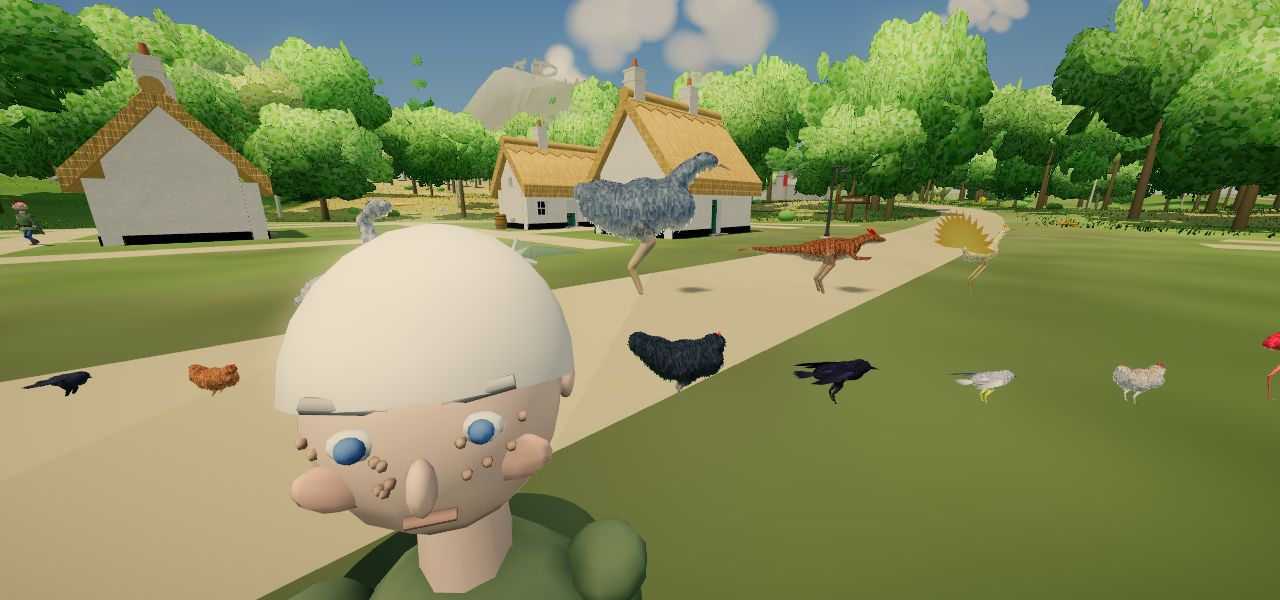
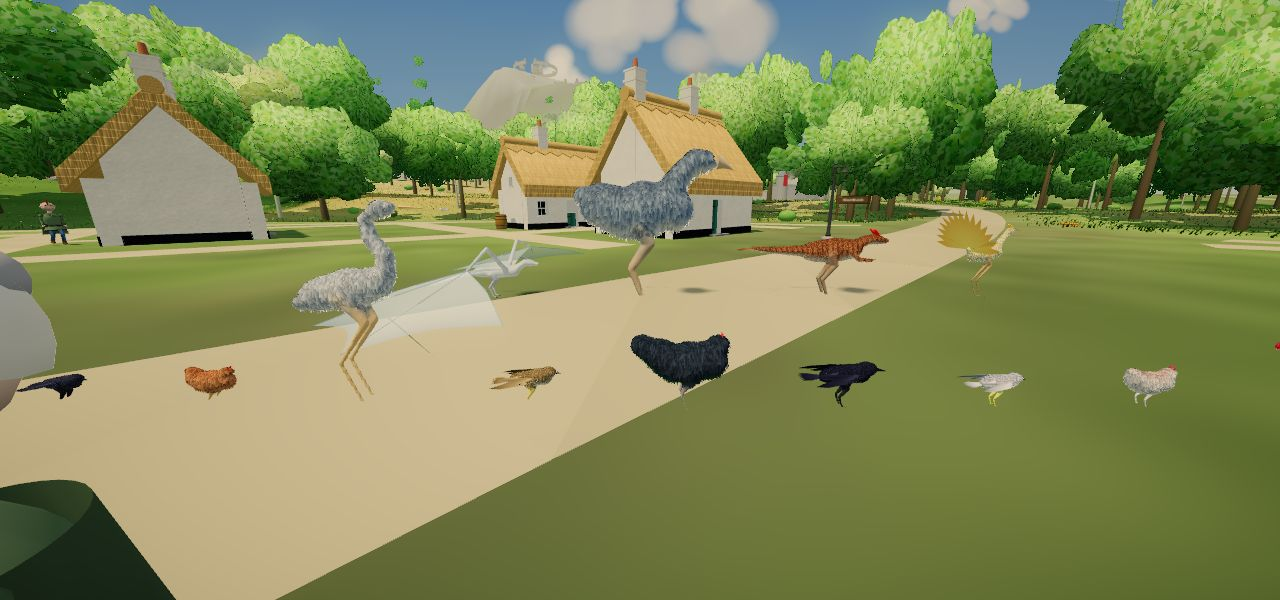
Bodies: Session 1925 — the Stormplume, heavy-headed: a thick neck, a big head, a deep hooked beak (the critic, 6 Nov; OG-040)
Claude-Session: https://claude.ai/code/session_019eFMMod6aV7gdqFC3L4u1c

diff --git a/docs/prototypes/levelup/creatures.js b/docs/prototypes/levelup/creatures.js
@@ -562,7 +562,15 @@ function crystals(o, S, c, p, side, r) {
     g.translate(side * i * o.r * S * .6, -i * o.r * S * .3, -i * o.r * S * .9 * rk); geos.push(g.toNonIndexed()); }
   const m = new THREE.Mesh(mergeGeometries(geos), o.stone ? stdMat(c, { rough: .95, flat: true }) : new THREE.MeshPhysicalMaterial({ color: c, roughness: .15, metalness: 0, flatShading: true, emissive: c.clone().multiplyScalar(.25), clearcoat: 1, transparent: true, opacity: .92 })); m.position.copy(p); return m;
 }
-function beak(o, S, c, p, dir) { const g = new THREE.ConeGeometry(o.r * S, o.len * S, 8); g.scale(1, 1, .75); g.translate(0, o.len * S / 2, 0); const m = new THREE.Mesh(g, stdMat(c, { rough: .4 })); m.position.copy(p); m.quaternion.setFromUnitVectors(UP, dir.clone().add(V(0, -(o.hook || .1), 0)).normalize()); return m; }
+// Session 1925: `curve` bends the beak down toward its tip (a raptor's or a terror bird's hook), a share of its length at the tip, and
+// `deep` makes it taller than it is wide. The cone is built along y and turned onto `dir`; whichever of its cross axes the turn carries
+// nearest the vertical is the one bent and deepened
+function beak(o, S, c, p, dir) { const q = new THREE.Quaternion().setFromUnitVectors(UP, dir.clone().add(V(0, -(o.hook || .1), 0)).normalize());
+  const g = new THREE.ConeGeometry(o.r * S, o.len * S, 8, o.curve ? 5 : 1); g.scale(1, 1, .75); g.translate(0, o.len * S / 2, 0);
+  if (o.curve || o.deep) { const ax = V(1, 0, 0).applyQuaternion(q).y, az = V(0, 0, 1).applyQuaternion(q).y, useX = Math.abs(ax) > Math.abs(az), sg = -Math.sign(useX ? ax : az) || 1, P = g.attributes.position;
+    for (let i = 0; i < P.count; i++) { const t = P.getY(i) / (o.len * S); let v = useX ? P.getX(i) : P.getZ(i); v = v * (o.deep || 1) + sg * (o.curve || 0) * o.len * S * t * t; useX ? P.setX(i, v) : P.setZ(i, v); }
+    g.computeVertexNormals(); }
+  const m = new THREE.Mesh(g, stdMat(c, { rough: .4 })); m.position.copy(p); m.quaternion.copy(q); return m; }
 
 // ── the flesh: a smooth surface grown around the capsules, meshed by surface nets on a grid ──
 // A capsule's field is exp(-d/k), d its distance; capsules of one group take their nearest (hard union), groups add
@@ -1304,8 +1312,11 @@ export const PLANS = {
     fur: { len: .1, layers: 10, sx: 34, sy: 18, droop: .7 },
     parts: [
       ['spine', { hip: [1.6, -.32], chest: [1.72, .3], n: 3, r: [.4, .46, .38], s: [.86, 1.05], rump: .45, rumpDrop: -.15, front: .22, frontDrop: .05 }],
-      ['neck', { len: 1.05, n: 4, rise: 78, curve: -50, r: [.2, .085], fwd: -.06 }],
-      ['head', { len: .28, r: .095, pitch: 5, eyes: [{ f: .48, up: .3, out: .6, r: .02, color: [.9, .55, .1] }], beak: { len: .26, r: .06, up: -.1, hook: .3 } }],
+      // Session 1925 (the critic, 6 Nov: "a beak on a stalk", the head a third of OG-040's): the art's bird is heavy-headed, a thick neck
+      // to a big head and a deep hooked beak. Neck .2 to .085 was thinned to a stalk; now .24 to .14. Head .28 by .095, now .42 by .165; beak
+      // .26 by .06, now .34 by .13, deeper than wide and curved down to a hook at the tip (the beak's new `curve` and `deep`)
+      ['neck', { len: 1.0, n: 4, rise: 78, curve: -50, r: [.24, .14], fwd: -.06 }],
+      ['head', { len: .42, r: .165, pitch: 5, eyes: [{ f: .48, up: .35, out: .62, r: .026, color: [.9, .55, .1] }], beak: { len: .34, r: .13, up: -.15, hook: .2, curve: .3, deep: 1.4 } }],
       ['tail', { len: .55, n: 2, r: [.2, .12], droop: -25 }],
       ['legs', { at: .38, kind: 'bird', out: .18, drop: .3, claws: { r: .012, len: .07 } }]
     ] },

diff --git a/vendor/creatures.builder.js b/vendor/creatures.builder.js
@@ -1992,7 +1992,15 @@ function crystals(o, S, c, p, side, r) {
     g.translate(side * i * o.r * S * .6, -i * o.r * S * .3, -i * o.r * S * .9 * rk); geos.push(g.toNonIndexed()); }
   const m = new THREE.Mesh(mergeGeometries(geos), o.stone ? stdMat(c, { rough: .95, flat: true }) : new THREE.MeshPhysicalMaterial({ color: c, roughness: .15, metalness: 0, flatShading: true, emissive: c.clone().multiplyScalar(.25), clearcoat: 1, transparent: true, opacity: .92 })); m.position.copy(p); return m;
 }
-function beak(o, S, c, p, dir) { const g = new THREE.ConeGeometry(o.r * S, o.len * S, 8); g.scale(1, 1, .75); g.translate(0, o.len * S / 2, 0); const m = new THREE.Mesh(g, stdMat(c, { rough: .4 })); m.position.copy(p); m.quaternion.setFromUnitVectors(UP, dir.clone().add(V(0, -(o.hook || .1), 0)).normalize()); return m; }
+// Session 1925: `curve` bends the beak down toward its tip (a raptor's or a terror bird's hook), a share of its length at the tip, and
+// `deep` makes it taller than it is wide. The cone is built along y and turned onto `dir`; whichever of its cross axes the turn carries
+// nearest the vertical is the one bent and deepened
+function beak(o, S, c, p, dir) { const q = new THREE.Quaternion().setFromUnitVectors(UP, dir.clone().add(V(0, -(o.hook || .1), 0)).normalize());
+  const g = new THREE.ConeGeometry(o.r * S, o.len * S, 8, o.curve ? 5 : 1); g.scale(1, 1, .75); g.translate(0, o.len * S / 2, 0);
+  if (o.curve || o.deep) { const ax = V(1, 0, 0).applyQuaternion(q).y, az = V(0, 0, 1).applyQuaternion(q).y, useX = Math.abs(ax) > Math.abs(az), sg = -Math.sign(useX ? ax : az) || 1, P = g.attributes.position;
+    for (let i = 0; i < P.count; i++) { const t = P.getY(i) / (o.len * S); let v = useX ? P.getX(i) : P.getZ(i); v = v * (o.deep || 1) + sg * (o.curve || 0) * o.len * S * t * t; useX ? P.setX(i, v) : P.setZ(i, v); }
+    g.computeVertexNormals(); }
+  const m = new THREE.Mesh(g, stdMat(c, { rough: .4 })); m.position.copy(p); m.quaternion.copy(q); return m; }
 
 // ── the flesh: a smooth surface grown around the capsules, meshed by surface nets on a grid ──
 // A capsule's field is exp(-d/k), d its distance; capsules of one group take their nearest (hard union), groups add
@@ -2734,8 +2742,11 @@ const PLANS = {
     fur: { len: .1, layers: 10, sx: 34, sy: 18, droop: .7 },
     parts: [
       ['spine', { hip: [1.6, -.32], chest: [1.72, .3], n: 3, r: [.4, .46, .38], s: [.86, 1.05], rump: .45, rumpDrop: -.15, front: .22, frontDrop: .05 }],
-      ['neck', { len: 1.05, n: 4, rise: 78, curve: -50, r: [.2, .085], fwd: -.06 }],
-      ['head', { len: .28, r: .095, pitch: 5, eyes: [{ f: .48, up: .3, out: .6, r: .02, color: [.9, .55, .1] }], beak: { len: .26, r: .06, up: -.1, hook: .3 } }],
+      // Session 1925 (the critic, 6 Nov: "a beak on a stalk", the head a third of OG-040's): the art's bird is heavy-headed, a thick neck
+      // to a big head and a deep hooked beak. Neck .2 to .085 was thinned to a stalk; now .24 to .14. Head .28 by .095, now .42 by .165; beak
+      // .26 by .06, now .34 by .13, deeper than wide and curved down to a hook at the tip (the beak's new `curve` and `deep`)
+      ['neck', { len: 1.0, n: 4, rise: 78, curve: -50, r: [.24, .14], fwd: -.06 }],
+      ['head', { len: .42, r: .165, pitch: 5, eyes: [{ f: .48, up: .35, out: .62, r: .026, color: [.9, .55, .1] }], beak: { len: .34, r: .13, up: -.15, hook: .2, curve: .3, deep: 1.4 } }],
       ['tail', { len: .55, n: 2, r: [.2, .12], droop: -25 }],
       ['legs', { at: .38, kind: 'bird', out: .18, drop: .3, claws: { r: .012, len: .07 } }]
     ] },

diff --git a/docs/devlog/1925.md b/docs/devlog/1925.md
@@ -1,0 +1,30 @@
+## v80 — Session 1925 — the Stormplume, heavy-headed (L3; OG-040; the critic's 6 Nov run)
+The critic's run of 6 Nov, against OG-040's Mark panel: "the Stormplume's head is a beak on a stalk", about a third of the art's. "The
+art's bird is heavy-headed, and that is half of what makes it a Stormplume rather than an emu." In the art the neck is thick, the head
+big, and the beak deep and hooked like a terror bird's, with a red crown. The kit's plan had a neck tapering from .2 to .085 m, a head .28
+by .095 and a cone of a beak .26 by .06, so the critic was right.
+
+**What changed** (`docs/prototypes/levelup/creatures.js`; `vendor/creatures.builder.js` rebuilt; no game file).
+- The Stormplume's neck tapers from .24 to .14 m and is 1.0 long, was 1.05.
+- Its head is .42 by .165, and the eyes are a little larger and higher.
+- Its beak is .34 by .13, set lower on the face.
+- The kit's `beak` gains two options, used only where a plan names them:
+  - `curve` bends the beak down toward its tip, a share of its length at the tip (.3 here).
+  - `deep` makes it taller than it is wide (1.4 here).
+  - The cone is built along y and turned onto the head's way. The cross axis that the turn carries nearest the vertical is the one
+    bent and deepened. My first try bent a fixed axis, which came out sideways on this bird and could not be seen from the side.
+- A beak without the two options is built as before, so every other bird is unchanged.
+- The red crown of the art is not drawn. The kit has no crest part for it, and adding one is its own session.
+
+### Verified (headless Chromium)
+- The kit's `creatures.check.mjs --plans=stormplume` passed everything. The flesh went from 38,636 to 40,464 tris in the kit's full
+  build, from the thicker neck and the bigger head under the fur. The walk, trot and stand feet errors are 0.
+- `f4animals` 1/1 with no retry. The birds' line (the Stormplume's size, bones and gaits) and the kick still pass.
+- `creatures_bundle.py` rebuilt the bundle.
+- Pictures:
+  - `docs/prototypes/levelup/creatures-stormplume.jpg`, the kit's, beside the 1.8 m post.
+  - `docs/prototypes/f4/f4-birds.jpg`, the game's line of birds, retaken by the suite.
+
+### Needs eyes
+- The fur's 10 cm still rounds the head into a ball. Whether the head reads as heavy at play distance, or only from the side.
+- The crown's red patch, if wanted, as a crest part.
